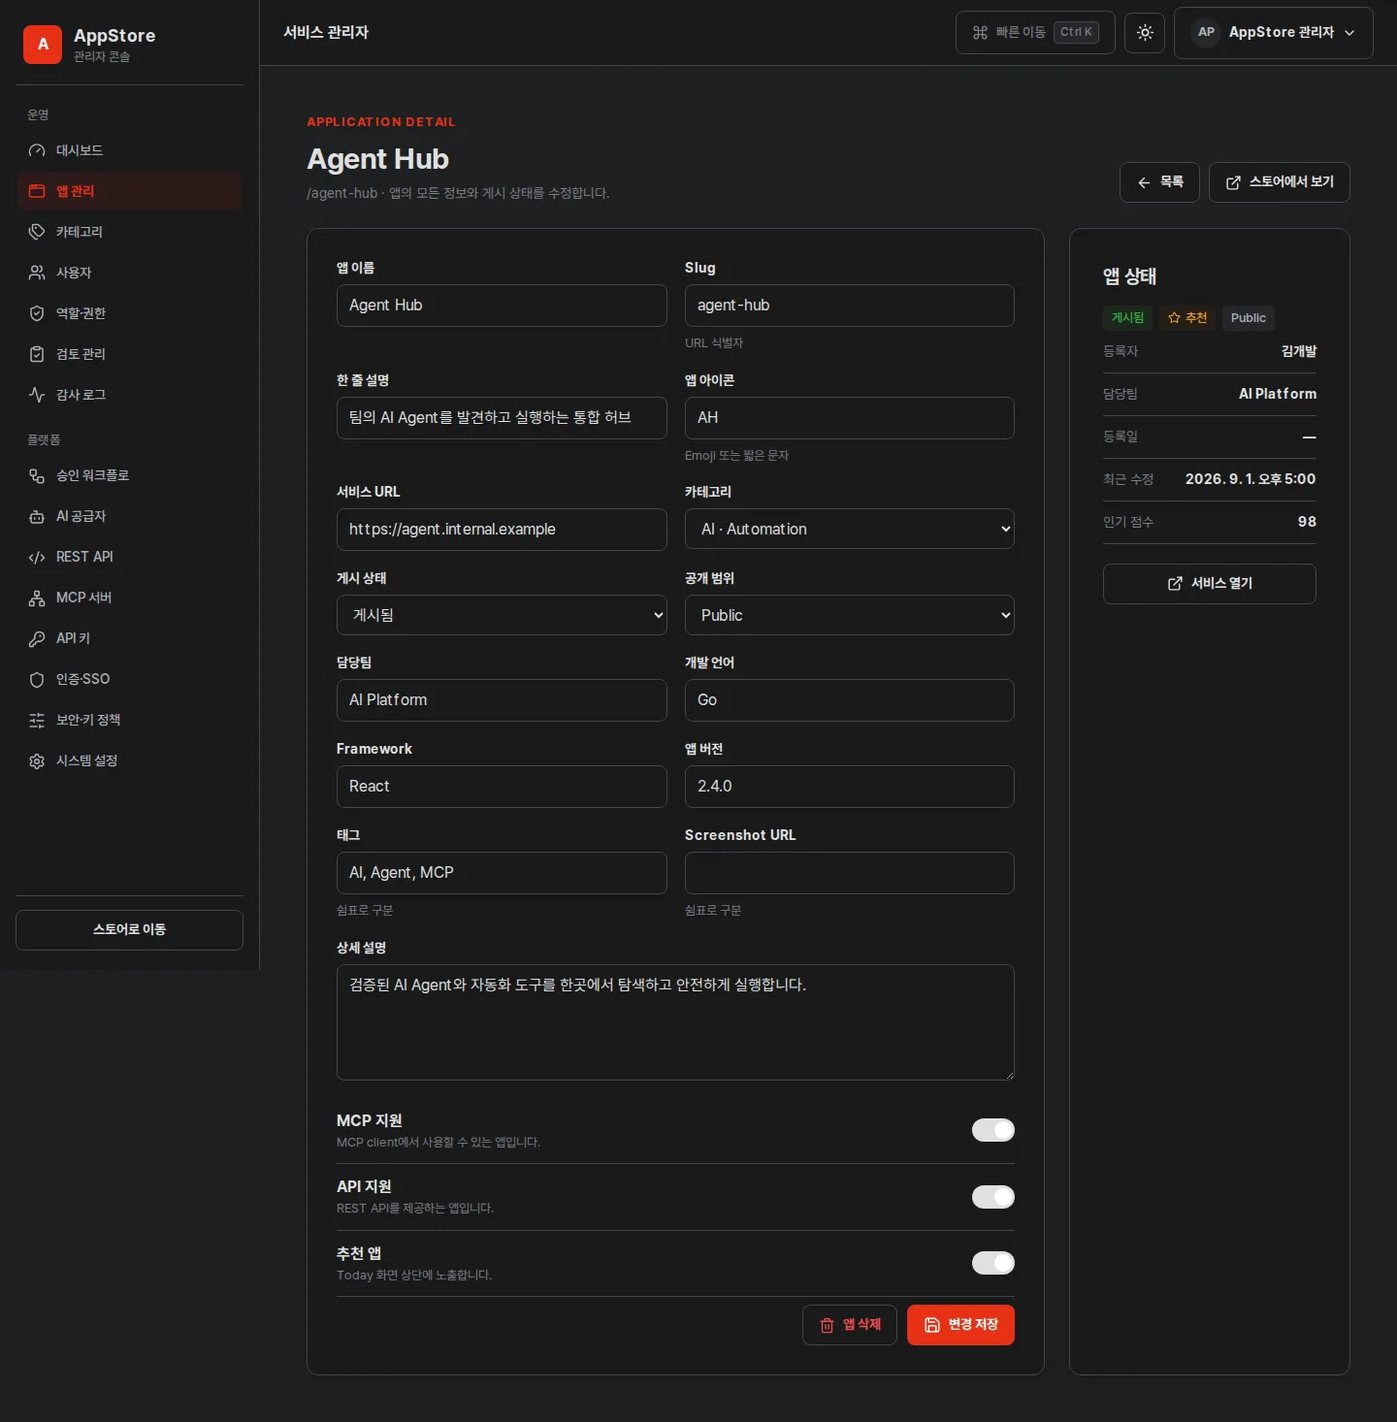
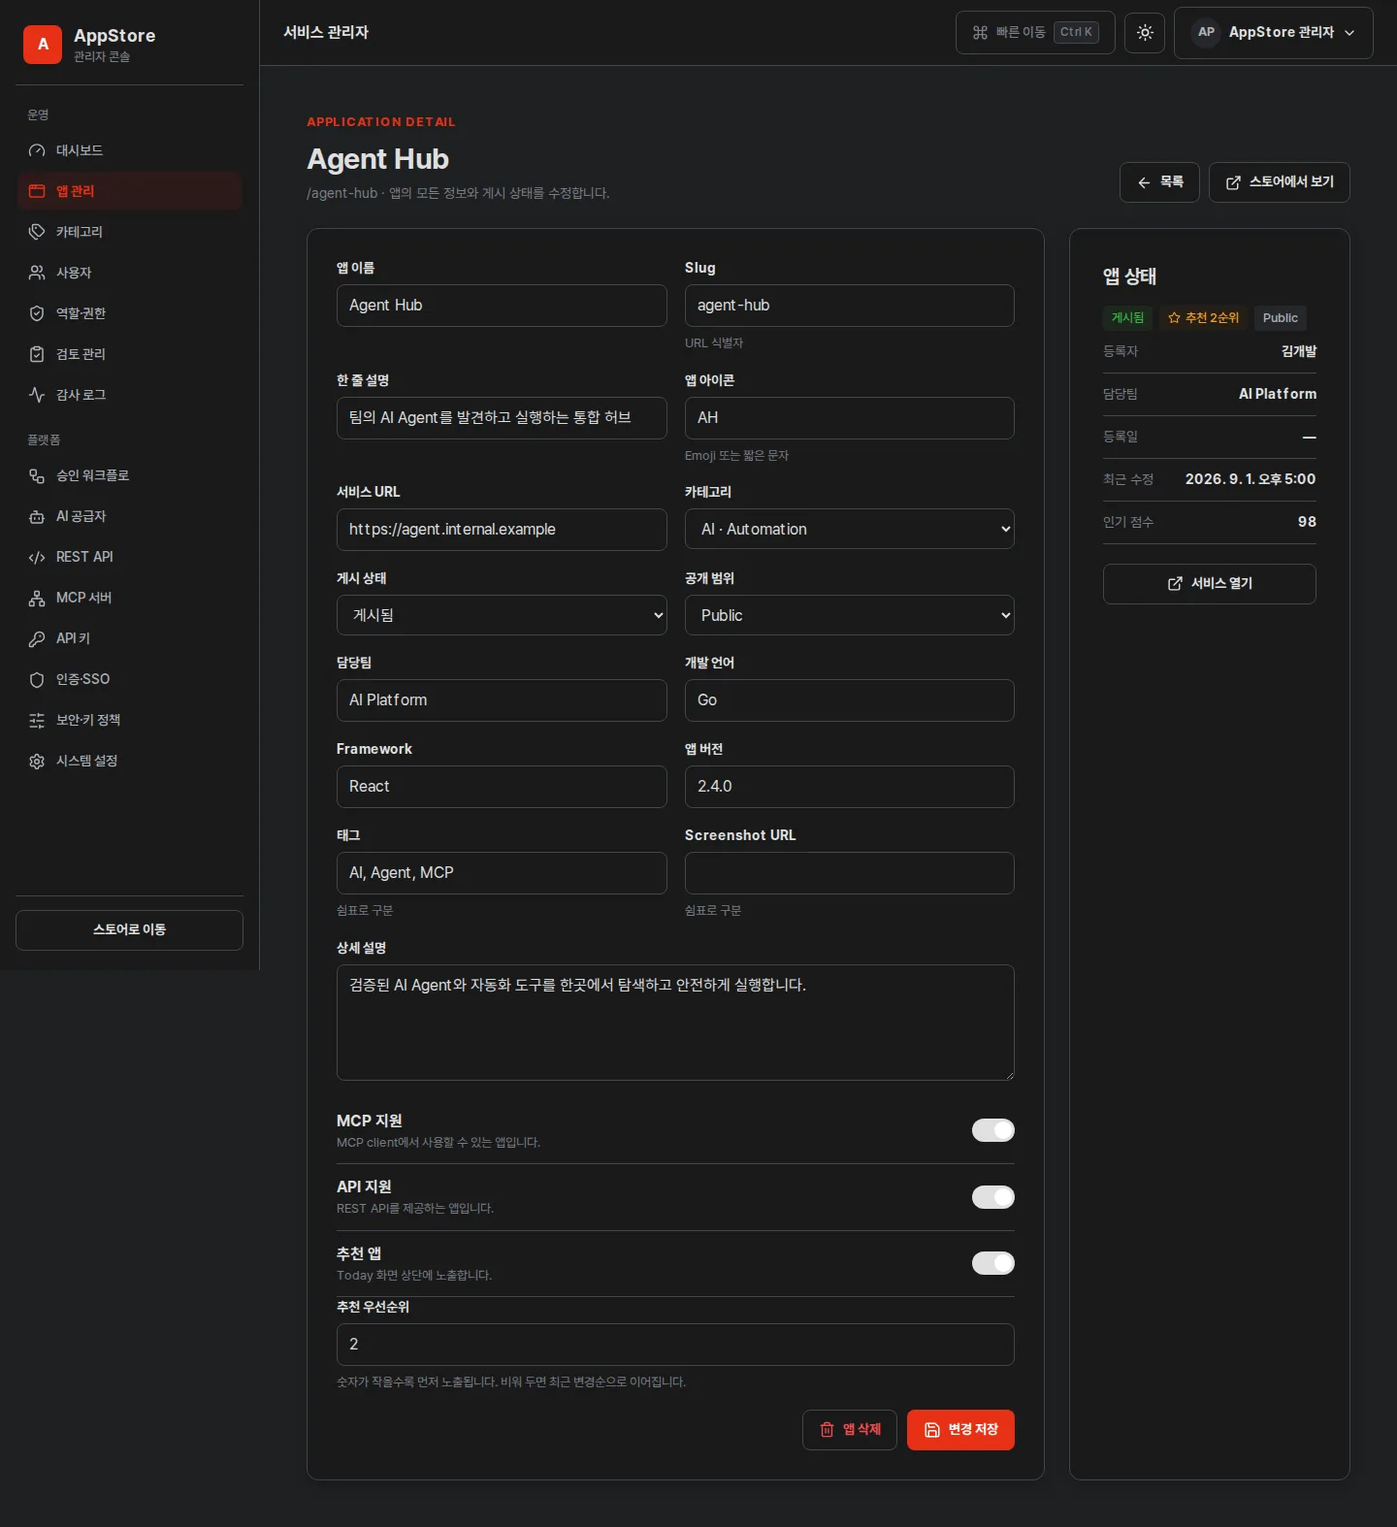
chore(release): AppStore v2.5.0
관리자가 첫 화면 배너 문구와 추천 진열 순서를 직접 관리하는 minor
릴리스입니다.

Version

web/package.json, package-lock.json, docker-compose.yml, README와 GitHub
Pages 문서의 버전 표기를 v2.5.0으로 올렸습니다. 이전 릴리스의 일괄 치환이
package-lock의 의존성 4건 version까지 2.4.0으로 바꿔 두었던 것을 각
resolved tarball에 맞게 되돌렸습니다.

Migration

apps에 featured_rank 컬럼과 부분 index를 추가하는 000003 migration이
포함됩니다. 기존 설치는 기동 시 자동으로 적용되고, 값이 비어 있으면 지금과
같은 최근 변경순으로 동작하므로 되돌릴 필요가 없습니다.

Screenshots

시스템 설정에 메인 배너 문구 항목이, 앱 관리에 추천 우선순위와 서비스 열기
버튼이 생겨 84개 캡처를 다시 생성하고 manifest의 version, pixel 크기와
SHA-256을 갱신했습니다. 라우트 구성은 v2.4.0과 같아 항목 수는 84개
그대로입니다.

검증: go test 전체 패키지, go vet, gofmt, npm test 17건, npm run lint,
prettier check, npm run build, Playwright desktop·mobile 49건,
check-offline-assets.sh, check-env-contract.sh, check-docs.sh 모두
통과했습니다.

Claude-Session: https://claude.ai/code/session_01H3XnmRnx7GXrzUmDFFn47Q

diff --git a/docs/guides/release/index.html b/docs/guides/release/index.html
@@ -17,7 +17,7 @@
         <aside class="toc" aria-label="이 페이지 목차"><strong>목차</strong><a href="#contract">명명 계약</a><a href="#gates">릴리스 Gate</a><a href="#screenshots">화면 캡처</a><a href="#local">로컬 검증</a><a href="#tag">커밋·태그</a><a href="#workflow">자동 Workflow</a><a href="#verify">게시 후 검증</a><a href="#pages">Pages</a></aside>
         <article class="guide-content">
           <section id="contract"><h2>1. 불변 명명 계약</h2>
-            <div class="table-wrap"><table><thead><tr><th>항목</th><th>v2.4.0 릴리스</th><th>원천</th></tr></thead><tbody><tr><td>Git tag</td><td><code>v2.4.0</code></td><td>안정 SemVer</td></tr><tr><td>Docker image</td><td><code>appstore:v2.4.0</code></td><td>tag를 그대로 사용, v 재추가 금지</td></tr><tr><td>Release custom asset</td><td><code>appstore-v2.4.0.tar.gz</code></td><td><code>docker save | gzip</code></td></tr><tr><td>API/UI version</td><td><code>v2.4.0</code></td><td>Go ldflags</td></tr><tr><td>OCI version label</td><td><code>v2.4.0</code></td><td>Docker build arg</td></tr></tbody></table></div>
+            <div class="table-wrap"><table><thead><tr><th>항목</th><th>v2.5.0 릴리스</th><th>원천</th></tr></thead><tbody><tr><td>Git tag</td><td><code>v2.5.0</code></td><td>안정 SemVer</td></tr><tr><td>Docker image</td><td><code>appstore:v2.5.0</code></td><td>tag를 그대로 사용, v 재추가 금지</td></tr><tr><td>Release custom asset</td><td><code>appstore-v2.5.0.tar.gz</code></td><td><code>docker save | gzip</code></td></tr><tr><td>API/UI version</td><td><code>v2.5.0</code></td><td>Go ldflags</td></tr><tr><td>OCI version label</td><td><code>v2.5.0</code></td><td>Docker build arg</td></tr></tbody></table></div>
             <p>현재 단일 archive 계약은 Linux/AMD64를 대상으로 합니다. ARM64가 필요하면 같은 이름을 덮어쓰지 말고 먼저 architecture별 명명 정책을 승인받습니다.</p>
           </section>
           <section id="gates"><h2>2. 릴리스 Gate</h2>
@@ -25,23 +25,23 @@
             <div class="callout warning"><strong>금지:</strong> 빌드 성공만으로 tag를 만들지 않습니다. public, SSO, Admin, Key rotation, Workflow OFF/ON, streaming cancel과 route refresh를 화면에서 확인해야 합니다.</div>
           </section>
           <section id="screenshots"><h2>3. 전체 페이지 캡처 갱신</h2>
-            <p><code>docs/assets/screenshots/manifest.json</code>은 v2.4.0의 모든 React route에 대한 desktop·mobile 전체 페이지 WebP, 대체 텍스트, pixel 크기, 상태, 버전과 SHA-256을 기록합니다. 캡처는 Playwright의 deterministic fixture를 사용하며 <code>make screenshots VERSION=v2.4.0</code>으로 재현합니다.</p>
-            <ol><li>실제 사용자·Secret이 없는 demo seed와 고정 시각을 사용합니다.</li><li>로그인, submit, 개인 영역, review와 모든 admin route에 필요한 권한 세션을 준비합니다.</li><li>각 항목을 <code>fullPage: true</code>로 캡처해 PNG 원본을 만듭니다.</li><li><code>make screenshots VERSION=v2.4.0</code>으로 WebP를 게시하고 manifest의 status, version, 크기와 checksum을 갱신합니다.</li><li>OIDC·AI Secret, Key 원문, 실제 email, 실제 내부 hostname과 Request body가 보이지 않는지 검수합니다.</li><li>홍보 gallery에는 대표 화면, 사용자·관리자 가이드에는 해당 업무 화면을 배치합니다.</li></ol>
-            <p>v2.4.0 manifest의 84개 항목은 모두 <code>captured</code> 상태이며 실제 WebP와 SHA-256이 일치해야 문서 검사를 통과합니다.</p>
+            <p><code>docs/assets/screenshots/manifest.json</code>은 v2.5.0의 모든 React route에 대한 desktop·mobile 전체 페이지 WebP, 대체 텍스트, pixel 크기, 상태, 버전과 SHA-256을 기록합니다. 캡처는 Playwright의 deterministic fixture를 사용하며 <code>make screenshots VERSION=v2.5.0</code>으로 재현합니다.</p>
+            <ol><li>실제 사용자·Secret이 없는 demo seed와 고정 시각을 사용합니다.</li><li>로그인, submit, 개인 영역, review와 모든 admin route에 필요한 권한 세션을 준비합니다.</li><li>각 항목을 <code>fullPage: true</code>로 캡처해 PNG 원본을 만듭니다.</li><li><code>make screenshots VERSION=v2.5.0</code>으로 WebP를 게시하고 manifest의 status, version, 크기와 checksum을 갱신합니다.</li><li>OIDC·AI Secret, Key 원문, 실제 email, 실제 내부 hostname과 Request body가 보이지 않는지 검수합니다.</li><li>홍보 gallery에는 대표 화면, 사용자·관리자 가이드에는 해당 업무 화면을 배치합니다.</li></ol>
+            <p>v2.5.0 manifest의 84개 항목은 모두 <code>captured</code> 상태이며 실제 WebP와 SHA-256이 일치해야 문서 검사를 통과합니다.</p>
           </section>
           <section id="local"><h2>4. 로컬 release archive 검증</h2>
             <pre><code>make test
 make check
 make test-e2e
-make archive VERSION=v2.4.0
-make verify-archive VERSION=v2.4.0
-./scripts/smoke-image.sh appstore:v2.4.0</code></pre>
+make archive VERSION=v2.5.0
+make verify-archive VERSION=v2.5.0
+./scripts/smoke-image.sh appstore:v2.5.0</code></pre>
             <p><code>scripts/release-image.sh</code>는 tag 형식을 검사하고 image를 build한 뒤 <code>gzip -9n</code>으로 저장합니다. 검증 script는 Docker manifest의 RepoTag, OCI version label과 non-root user를 확인하고 archive를 다시 load합니다.</p>
           </section>
           <section id="tag"><h2>5. 최종 커밋, push와 tag</h2>
-            <ol class="steps"><li><strong>작업 트리를 검토합니다.</strong><br><code>git status --short</code>와 diff에서 secret, generated cache, 원격 runtime asset과 관계없는 사용자 변경이 섞이지 않았는지 확인합니다.</li><li><strong>최종 commit을 만듭니다.</strong><br>코드, migration, 문서와 실제 screenshot manifest가 같은 release 상태를 설명해야 합니다.</li><li><strong>main에 push합니다.</strong><br>CI와 Pages workflow가 성공할 때까지 tag를 만들지 않습니다.</li><li><strong>annotated tag를 만들고 push합니다.</strong><pre><code>git tag -a v2.4.0 -m "AppStore v2.4.0"
+            <ol class="steps"><li><strong>작업 트리를 검토합니다.</strong><br><code>git status --short</code>와 diff에서 secret, generated cache, 원격 runtime asset과 관계없는 사용자 변경이 섞이지 않았는지 확인합니다.</li><li><strong>최종 commit을 만듭니다.</strong><br>코드, migration, 문서와 실제 screenshot manifest가 같은 release 상태를 설명해야 합니다.</li><li><strong>main에 push합니다.</strong><br>CI와 Pages workflow가 성공할 때까지 tag를 만들지 않습니다.</li><li><strong>annotated tag를 만들고 push합니다.</strong><pre><code>git tag -a v2.5.0 -m "AppStore v2.5.0"
 git push origin main
-git push origin v2.4.0</code></pre></li></ol>
+git push origin v2.5.0</code></pre></li></ol>
             <p>Release workflow는 tag commit이 <code>origin/main</code>의 ancestor가 아니면 중단합니다. 이미 존재하는 GitHub Release를 덮어쓰지 않습니다.</p>
           </section>
           <section id="workflow"><h2>6. GitHub Release 자동화</h2>

diff --git a/docs/guides/offline/index.html b/docs/guides/offline/index.html
@@ -19,7 +19,7 @@
         <article class="guide-content">
           <section id="scope"><h2>1. 릴리스 포함 범위</h2>
             <div class="grid two"><article class="card"><h3>포함</h3><ul><li><code>appstore:vX.Y.Z</code> Linux/AMD64 image</li><li>React 정적 자산과 SPA fallback</li><li>Go API, OIDC, SSE와 MCP 서버</li><li>PostgreSQL migration과 초기 seed</li><li>공개 CA와 timezone database</li></ul></article><article class="card"><h3>미포함</h3><ul><li>PostgreSQL image와 데이터</li><li>Keycloak image와 realm</li><li>AI model 또는 provider image</li><li>reverse proxy, DNS와 조직 인증서</li><li>실제 운영 secret</li></ul></article></div>
-            <div class="callout"><strong>v2.4.0 파일 규칙:</strong> custom asset은 <code>appstore-v2.4.0.tar.gz</code>이고, load 후 image는 <code>appstore:v2.4.0</code>입니다.</div>
+            <div class="callout"><strong>v2.5.0 파일 규칙:</strong> custom asset은 <code>appstore-v2.5.0.tar.gz</code>이고, load 후 image는 <code>appstore:v2.5.0</code>입니다.</div>
           </section>
           <section id="prerequisites"><h2>2. 선행조건</h2>
             <ul><li>Linux/AMD64 Docker Engine과 서비스 운영 권한</li><li>접근 가능한 PostgreSQL database와 schema 변경 권한</li><li>container에서 PostgreSQL을 찾을 수 있는 내부 DNS·network</li><li>SSO 사용 시 폐쇄망 Keycloak Issuer와 TLS 신뢰 체계</li><li>AI 사용 시 폐쇄망 OpenAI-compatible, vLLM, Ollama 또는 Custom endpoint</li><li>조직 reverse proxy, HTTPS 인증서와 서비스 FQDN</li></ul>
@@ -27,15 +27,15 @@
           </section>
           <section id="transfer"><h2>3. archive 반입과 검증</h2>
             <ol class="steps">
-              <li><strong>온라인 구간에서 custom asset을 받습니다.</strong><br><code>appstore-v2.4.0.tar.gz</code>로 표기됩니다. GitHub의 자동 Source code archive와 혼동하지 않습니다.</li>
-              <li><strong>릴리스 본문의 SHA-256과 비교합니다.</strong><pre><code>sha256sum appstore-v2.4.0.tar.gz</code></pre></li>
+              <li><strong>온라인 구간에서 custom asset을 받습니다.</strong><br><code>appstore-v2.5.0.tar.gz</code>로 표기됩니다. GitHub의 자동 Source code archive와 혼동하지 않습니다.</li>
+              <li><strong>릴리스 본문의 SHA-256과 비교합니다.</strong><pre><code>sha256sum appstore-v2.5.0.tar.gz</code></pre></li>
               <li><strong>승인된 매체로 폐쇄망에 반입합니다.</strong><br>조직의 악성코드 검사, 반입 결재와 매체 폐기 정책을 따릅니다.</li>
-              <li><strong>gzip과 Docker manifest를 확인하고 load합니다.</strong><pre><code>gzip -t appstore-v2.4.0.tar.gz
-gzip -dc appstore-v2.4.0.tar.gz | docker load
-docker image inspect appstore:v2.4.0 \
+              <li><strong>gzip과 Docker manifest를 확인하고 load합니다.</strong><pre><code>gzip -t appstore-v2.5.0.tar.gz
+gzip -dc appstore-v2.5.0.tar.gz | docker load
+docker image inspect appstore:v2.5.0 \
   --format '{{.RepoTags}} user={{.Config.User}} version={{index .Config.Labels "org.opencontainers.image.version"}}'</code></pre></li>
             </ol>
-            <p>검사 결과에는 <code>appstore:v2.4.0</code>, non-root 사용자 <code>appstore:appstore</code>, 동일한 OCI version label이 보여야 합니다.</p>
+            <p>검사 결과에는 <code>appstore:v2.5.0</code>, non-root 사용자 <code>appstore:appstore</code>, 동일한 OCI version label이 보여야 합니다.</p>
           </section>
           <section id="environment"><h2>4. 네 환경변수 준비</h2>
             <p>예제 파일을 복사하고 권한을 제한합니다. 다음 네 이름 외의 서비스 설정은 환경변수로 전달하지 않습니다.</p>
@@ -60,7 +60,7 @@ ENCRYPTION_KEY=replace-with-the-generated-32-byte-base64-value</code></pre>
   --security-opt no-new-privileges:true \
   --env-file ./appstore.env \
   -p 127.0.0.1:8080:8080 \
-  appstore:v2.4.0</code></pre>
+  appstore:v2.5.0</code></pre>
             <p>외부 공개가 필요하면 reverse proxy가 <code>127.0.0.1:8080</code>에 연결하도록 구성합니다. Go 서버의 내부 listen port는 8080으로 고정됩니다.</p>
             <pre><code>docker logs --tail 100 appstore
 curl --fail http://127.0.0.1:8080/health/live
@@ -72,7 +72,7 @@ curl --fail http://127.0.0.1:8080/api/version</code></pre>
             <p><code>docker-compose.yml</code>은 PostgreSQL을 번들하지 않고 외부 DSN을 사용합니다. <code>APPSTORE_VERSION</code>은 Compose가 image tag를 고르는 host-side 치환 값이며 application container에는 전달되지 않습니다.</p>
             <pre><code>cp .env.example .env
 chmod 600 .env
-APPSTORE_VERSION=v2.4.0 docker compose up -d --no-build
+APPSTORE_VERSION=v2.5.0 docker compose up -d --no-build
 docker compose ps
 docker compose logs --tail 100 appstore</code></pre>
             <p><code>--no-build</code>는 registry나 build dependency를 찾지 않고 이미 load한 image만 사용하도록 보장합니다. Application 환경에는 승인된 네 값만 전달됩니다.</p>

diff --git a/docs/index.html b/docs/index.html
@@ -147,8 +147,8 @@
           </div>
         </div>
         <figure class="hero-visual">
-          <a href="./assets/screenshots/captures/today-desktop.webp" aria-label="AppStore Today 전체 화면 WebP 열기"><img class="capture-preview" src="./assets/screenshots/captures/today-desktop.webp" width="1440" height="1496" alt="추천 배너, 검색, 카테고리와 앱 카드로 구성된 AppStore v2.4.0 공개 카탈로그" fetchpriority="high" decoding="async"></a>
-          <figcaption>v2.4.0 실제 UI · 비식별 데이터로 생성한 desktop 전체 페이지 캡처</figcaption>
+          <a href="./assets/screenshots/captures/today-desktop.webp" aria-label="AppStore Today 전체 화면 WebP 열기"><img class="capture-preview" src="./assets/screenshots/captures/today-desktop.webp" width="1440" height="1496" alt="추천 배너, 검색, 카테고리와 앱 카드로 구성된 AppStore v2.5.0 공개 카탈로그" fetchpriority="high" decoding="async"></a>
+          <figcaption>v2.5.0 실제 UI · 비식별 데이터로 생성한 desktop 전체 페이지 캡처</figcaption>
         </figure>
       </section>
 
@@ -203,14 +203,14 @@
             </ul>
           </article>
         </div>
-        <div class="callout success" style="margin-top: 1rem"><strong>v2.4.0 릴리스:</strong> 이미지 이름은 <code>appstore:v2.4.0</code>, 반입 파일은 <code>appstore-v2.4.0.tar.gz</code>입니다. 이후 버전도 같은 <code>vX.Y.Z</code> 규칙을 따릅니다.</div>
+        <div class="callout success" style="margin-top: 1rem"><strong>v2.5.0 릴리스:</strong> 이미지 이름은 <code>appstore:v2.5.0</code>, 반입 파일은 <code>appstore-v2.5.0.tar.gz</code>입니다. 이후 버전도 같은 <code>vX.Y.Z</code> 규칙을 따릅니다.</div>
       </section>
 
       <section class="section" id="screens" aria-labelledby="screens-title">
         <div class="section-heading">
           <span class="pill">제품 화면</span>
           <h2 id="screens-title">사용자와 관리자의 맥락을 분리</h2>
-          <p>모든 이미지는 v2.4.0 실제 React 화면을 Playwright의 비식별 fixture로 캡처한 WebP입니다. 이미지를 선택하면 잘리지 않은 전체 페이지를 확인할 수 있습니다.</p>
+          <p>모든 이미지는 v2.5.0 실제 React 화면을 Playwright의 비식별 fixture로 캡처한 WebP입니다. 이미지를 선택하면 잘리지 않은 전체 페이지를 확인할 수 있습니다.</p>
         </div>
         <div class="gallery">
           <figure class="shot"><a href="./assets/screenshots/captures/apps-desktop.webp" aria-label="공개 앱 카탈로그 전체 화면 열기"><img class="capture-preview" src="./assets/screenshots/captures/apps-desktop.webp" width="1440" height="1000" decoding="async" alt="검색과 정렬 상태가 적용된 AppStore 공개 앱 카탈로그 전체 화면"></a><figcaption>Public · 로그인 없는 탐색과 URL 기반 검색 상태</figcaption></figure>

diff --git a/docs/guides/upgrade/index.html b/docs/guides/upgrade/index.html
@@ -28,16 +28,16 @@ sha256sum "appstore-$backup_stamp.dump"</code></pre>
             <p>백업 복원 시험이 최근 수행되지 않았다면 production 교체 전에 별도 database로 restore를 시험합니다. 자세한 내용은 <a href="../backup/">백업·복구 가이드</a>를 따릅니다.</p>
           </section>
           <section id="load"><h2>3. 새 image 검증과 load</h2>
-            <pre><code>sha256sum appstore-v2.4.0.tar.gz
-gzip -t appstore-v2.4.0.tar.gz
-gzip -dc appstore-v2.4.0.tar.gz | docker load
-docker image inspect appstore:v2.4.0 \
+            <pre><code>sha256sum appstore-v2.5.0.tar.gz
+gzip -t appstore-v2.5.0.tar.gz
+gzip -dc appstore-v2.5.0.tar.gz | docker load
+docker image inspect appstore:v2.5.0 \
   --format 'user={{.Config.User}} version={{index .Config.Labels "org.opencontainers.image.version"}} revision={{index .Config.Labels "org.opencontainers.image.revision"}}'</code></pre>
             <p>version이 archive 이름과 다르거나 user가 root이면 배포하지 않습니다. 기존 image tag는 검증이 끝날 때까지 삭제하지 않습니다.</p>
           </section>
           <section id="switch"><h2>4. 서비스 교체</h2>
             <h3>Compose 사용</h3>
-            <pre><code>APPSTORE_VERSION=v2.4.0 docker compose up -d --no-build
+            <pre><code>APPSTORE_VERSION=v2.5.0 docker compose up -d --no-build
 docker compose ps
 docker compose logs --tail 200 appstore</code></pre>
             <h3>docker run 사용</h3>
@@ -48,7 +48,7 @@ docker run -d --name appstore --restart unless-stopped \
   --read-only --tmpfs /tmp:size=64m,mode=1777 \
   --cap-drop ALL --security-opt no-new-privileges:true \
   --env-file ./appstore.env -p 127.0.0.1:8080:8080 \
-  appstore:v2.4.0</code></pre>
+  appstore:v2.5.0</code></pre>
             <p>단일 database를 여러 버전이 동시에 migration하지 않도록 새 container가 ready가 된 후 traffic을 전환합니다. 여러 replica를 운영하면 한 instance만 먼저 올려 migration을 완료한 뒤 나머지를 교체합니다.</p>
           </section>
           <section id="verify"><h2>5. 업그레이드 후 검증</h2>

diff --git a/docs/guides/user/index.html b/docs/guides/user/index.html
@@ -57,7 +57,7 @@
               <li><strong>앱 카드를 엽니다.</strong><br>설명, 버전, 기술 정보, API·MCP 지원 여부와 관리자가 승인한 서비스 접속 URL을 확인합니다.</li>
               <li><strong>즐겨찾기를 선택합니다.</strong><br>비로그인 즐겨찾기는 현재 브라우저의 Local Storage에 보관되므로 브라우저 데이터를 삭제하면 함께 사라집니다.</li>
             </ol>
-            <figure class="shot"><a href="../../assets/screenshots/captures/apps-desktop.webp" aria-label="공개 앱 카탈로그 전체 화면 열기"><img class="capture-preview" src="../../assets/screenshots/captures/apps-desktop.webp" width="1440" height="1000" decoding="async" alt="검색어와 정렬 상태가 URL에 유지된 공개 앱 카탈로그 전체 화면"></a><figcaption>v2.4.0 실제 화면입니다. 새로고침해도 URL의 검색 상태가 유지됩니다.</figcaption></figure>
+            <figure class="shot"><a href="../../assets/screenshots/captures/apps-desktop.webp" aria-label="공개 앱 카탈로그 전체 화면 열기"><img class="capture-preview" src="../../assets/screenshots/captures/apps-desktop.webp" width="1440" height="1000" decoding="async" alt="검색어와 정렬 상태가 URL에 유지된 공개 앱 카탈로그 전체 화면"></a><figcaption>v2.5.0 실제 화면입니다. 새로고침해도 URL의 검색 상태가 유지됩니다.</figcaption></figure>
           </section>
 
           <section id="signin"><h2>3. SSO 로그인</h2>
